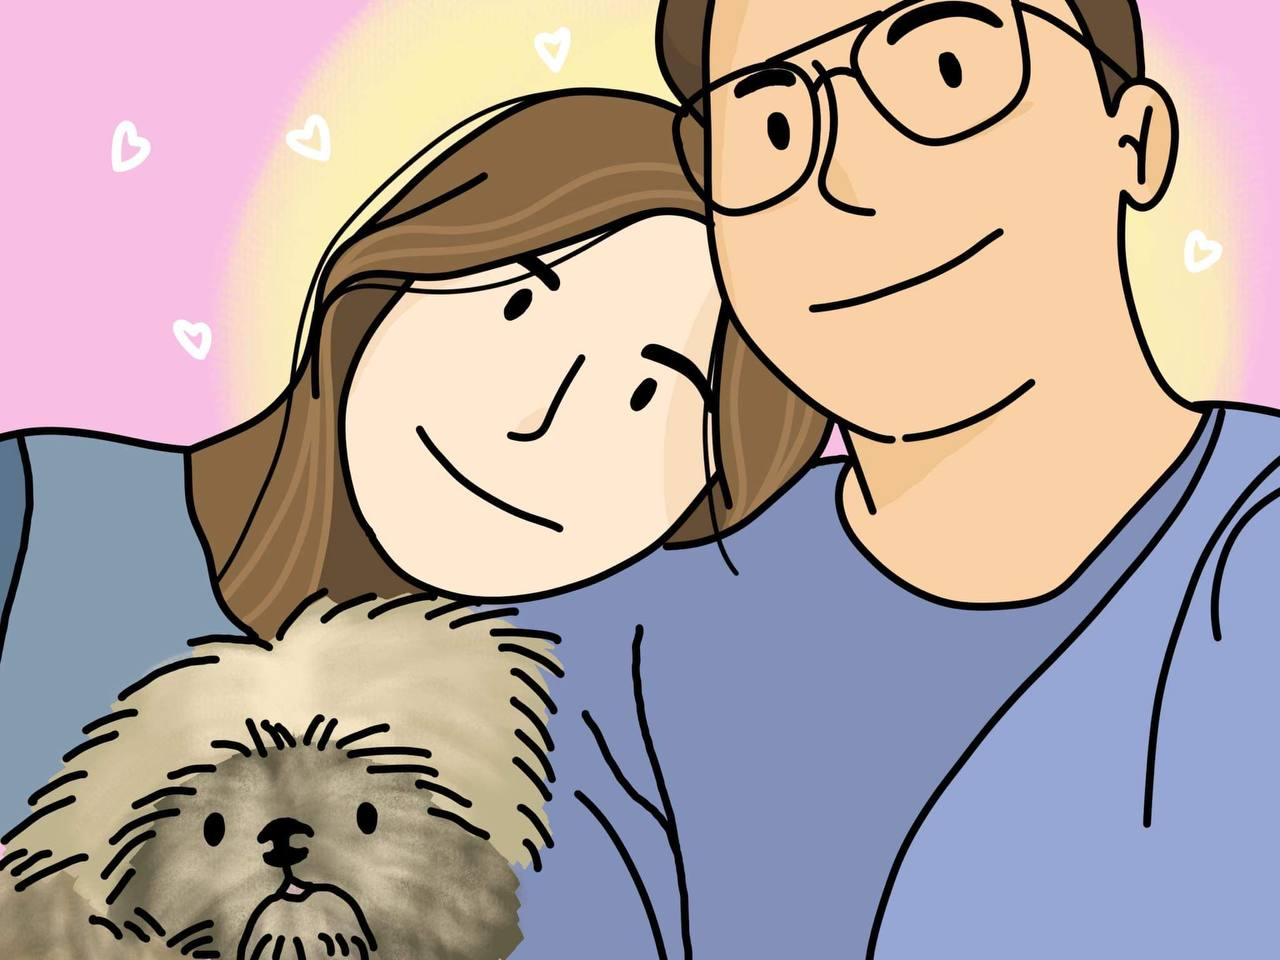
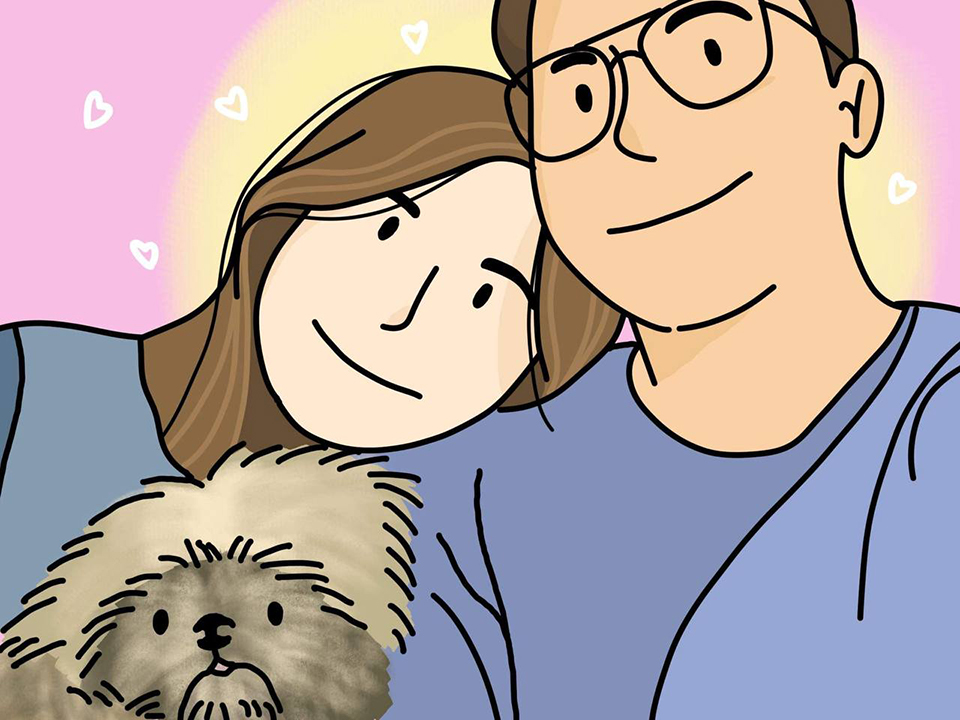
Resized images for faster loading speed Pointed image URLs to self-hosted files

diff --git a/nups/index.html b/nups/index.html
@@ -68,22 +68,22 @@
 								<h4>The rites will be held at</h4>
 								<h3>
 									Mt Carmel Shrine
-									<a href="https://waze.com/ul/hwdw54hebx"><img class="image waze" src="https://pngimg.com/d/waze_PNG39.png" style="width:5%;"/></a>
-									<a href="https://goo.gl/maps/8rm6jEv5NFzEHWYMA"><img class="image gmaps" src="https://upload.wikimedia.org/wikipedia/commons/thumb/3/39/Google_Maps_icon_%282015-2020%29.svg/2048px-Google_Maps_icon_%282015-2020%29.svg.png" style="width:5%;" /></a>
+									<a href="https://waze.com/ul/hwdw54hebx"><img class="image waze" src="images/waze.jpg" style="width:5%;"/></a>
+									<a href="https://goo.gl/maps/8rm6jEv5NFzEHWYMA"><img class="image gmaps" src="images/gmaps.png" style="width:5%;" /></a>
 								</h3>
 								<h6>Corner Broadway &amp; 4th Street, New Manila, Quezon City</h6>
 								<p>
-									<span class="image main"><img src="https://lh5.googleusercontent.com/p/AF1QipOfNv_5QpImHDlQkXtgebha-kFc-8XoywSvXiLB=s0" /></span>
+									<span class="image main"><img src="images/church.jpg" /></span>
 								</p>
 								<h4>The after-party will be held at</h4>
 								<h3>
 									Avire Towers
-									<a href="https://waze.com/ul/hwdw54vyxx"><img class="image waze" src="https://pngimg.com/d/waze_PNG39.png" style="width:5%;"/></a>
-									<a href="https://goo.gl/maps/m6rwwoiwzqhQpNqT9"><img class="image gmaps" src="https://upload.wikimedia.org/wikipedia/commons/thumb/3/39/Google_Maps_icon_%282015-2020%29.svg/2048px-Google_Maps_icon_%282015-2020%29.svg.png" style="width:5%;" /></a>
+									<a href="https://waze.com/ul/hwdw54vyxx"><img class="image waze" src="images/waze.png" style="width:5%;"/></a>
+									<a href="https://goo.gl/maps/m6rwwoiwzqhQpNqT9"><img class="image gmaps" src="images/gmaps.png" style="width:5%;" /></a>
 								</h3>
 								<h6>Corner P. Tuason &amp; Lakandula Street, Project 4, Quezon City</h6>
 								<p>
-									<span class="image main"><img src="https://lh5.googleusercontent.com/p/AF1QipPh8XgE4DOInUgUu3VKbo4edaccutNeg-cdPsln=s0" /></span>
+									<span class="image main"><img src="images/reception.jpeg" /></span>
 								</p>
 							</article>
 
